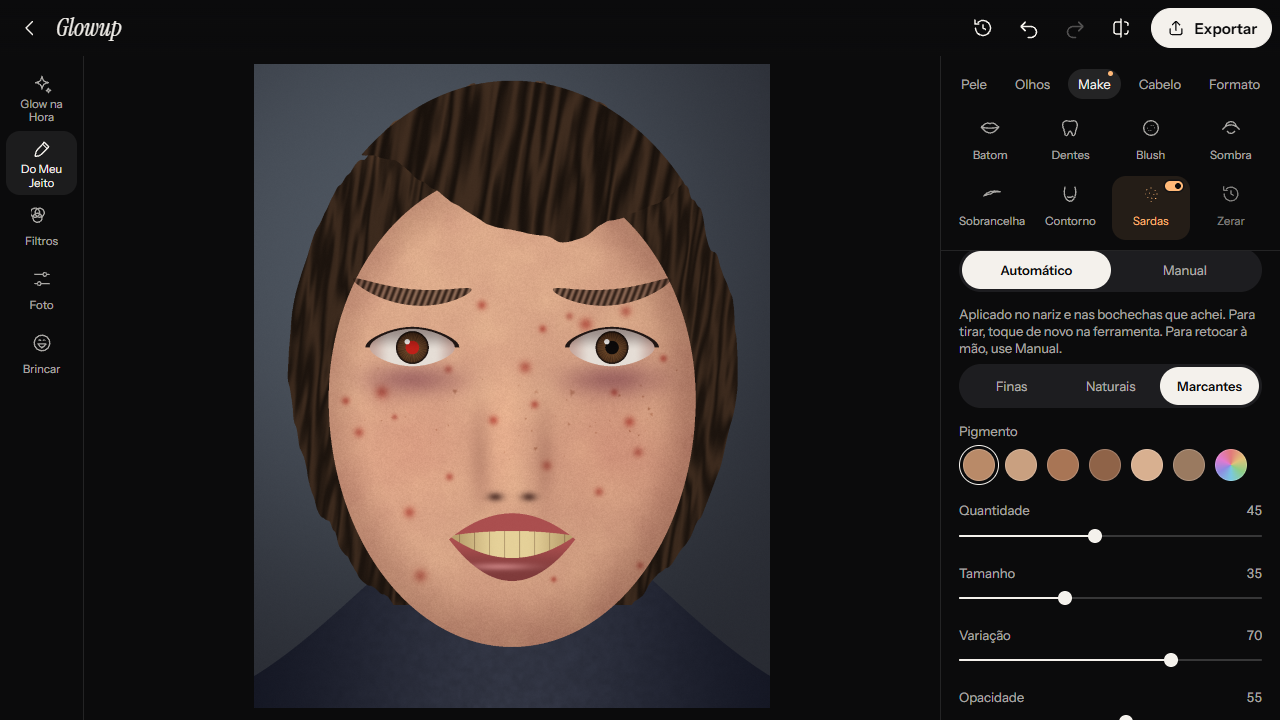
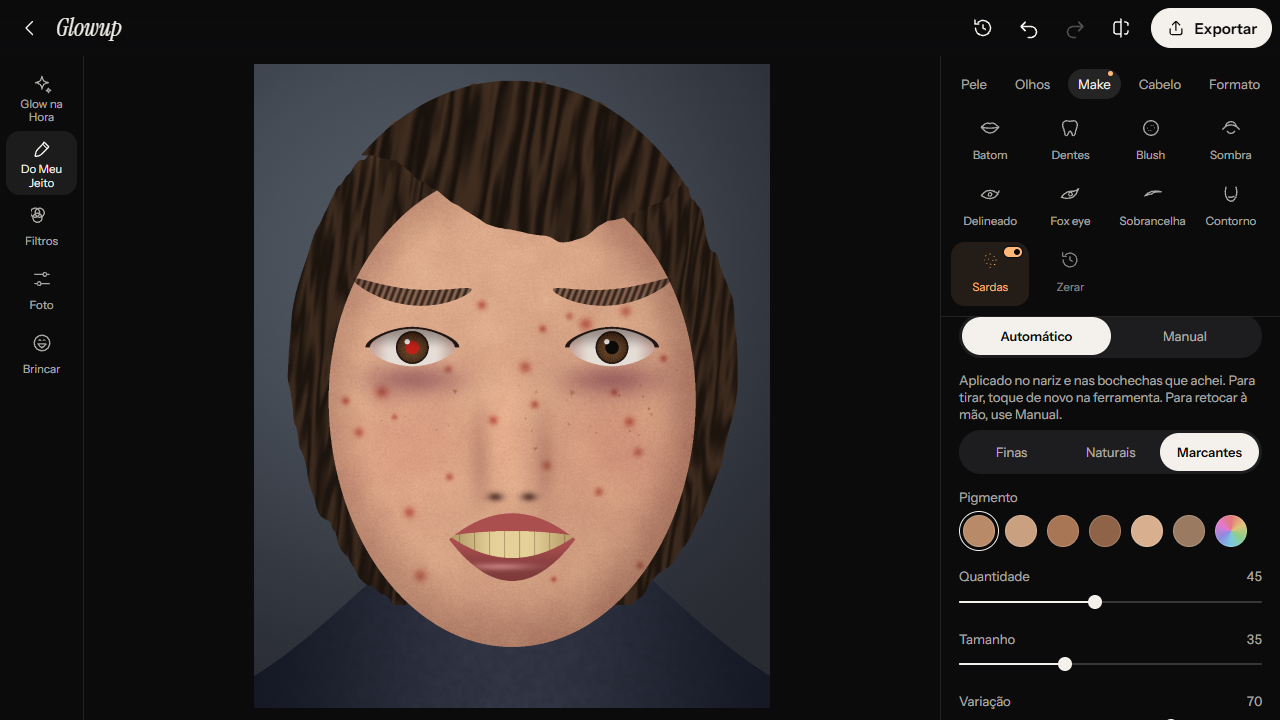
test: the liners are checked on drawn eyes and on the portrait
Unit tests cover the lids, the fit to the lashes, the classic and fox shapes,
the reach of the brush and an eye behind dark lenses. The e2e cases of Make
take Delineado and Fox eye, and the shots of the Make menu show them.

diff --git a/tests/unit/liner.test.ts b/tests/unit/liner.test.ts
@@ -1,0 +1,186 @@
+import { describe, expect, it } from 'vitest';
+import { eyeLids, fitLashes, foxShapes, linerShape, smoothLine, SMOKE_PEAK } from '../../src/core/face/liner';
+import type { MaskTarget, Point } from '../../src/core/face/mask';
+import { buildRegionMask } from '../../src/core/face/regions';
+import { makeFace, type FaceParts } from '../../src/core/face/scan';
+import { lens, oval, paintedPhoto, type Color } from './face-fixtures';
+
+const SIZE = 400;
+const at = (mask: Uint8Array, u: number, v: number) => mask[Math.round(v * SIZE) * SIZE + Math.round(u * SIZE)];
+
+/** A brow in the order of the model: along the top from the outer end, then back along the bottom. */
+function brow(cx: number, cy: number, halfW: number, halfH: number, outerAt: -1 | 1): Point[] {
+  const xs = [1, 0.5, 0, -0.5, -1].map((k) => cx + k * outerAt * halfW);
+  return [...xs.map((x): Point => [x, cy - halfH]), ...[...xs].reverse().map((x): Point => [x, cy + halfH])];
+}
+
+/**
+ * An eye in the order of the model, from its outer corner along the lower lid. `lens` starts at the left
+ * corner, which is the outer one of the eye on the left of the photo; the eye on the right is mirrored.
+ */
+function eye(cx: number, outerAt: -1 | 1): Point[] {
+  const list = lens(cx, 0.4, 0.06, 0.022, 16);
+  return outerAt === -1 ? list : list.map(([x, y]): Point => [2 * cx - x, y]);
+}
+
+const parts: FaceParts = {
+  eyes: [eye(0.37, -1), eye(0.63, 1)],
+  irises: [],
+  innerLips: lens(0.5, 0.68, 0.07, 0.015, 20),
+  outerLips: lens(0.5, 0.68, 0.09, 0.035, 20),
+  brows: [brow(0.37, 0.31, 0.07, 0.01, -1), brow(0.63, 0.31, 0.07, 0.01, 1)],
+};
+const face = (more: Partial<FaceParts> = {}) => makeFace(oval(0.5, 0.5, 0.26, 0.36), { ...parts, ...more });
+
+const SKIN: Color = [220, 168, 140];
+const WHITE: Color = [225, 220, 215];
+const LASH: Color = [40, 30, 28];
+const BROW: Color = [95, 65, 45];
+const LENS: Color = [30, 40, 70];
+
+const inLens = (u: number, v: number, cx: number, cy: number, a: number, b: number) => ((u - cx) / a) ** 2 + ((v - cy) / b) ** 2 < 1;
+
+/** Skin, two open eyes with a dark line of lashes on top, and brows. `over` covers some of it. */
+const eyed = (over?: (u: number, v: number) => Color | null): MaskTarget =>
+  paintedPhoto(SIZE, (u, v) => {
+    const covered = over?.(u, v);
+    if (covered) return covered;
+    for (const cx of [0.37, 0.63]) {
+      if (inLens(u, v, cx, 0.4, 0.06, 0.022)) return WHITE;
+      if (v < 0.4 && inLens(u, v, cx, 0.4, 0.061, 0.026)) return LASH;
+      if (inLens(u, v, cx, 0.31, 0.075, 0.012)) return BROW;
+    }
+    return SKIN;
+  });
+
+describe('the lids of an eye', () => {
+  const lids = eyeLids(eye(0.37, -1).map(([x, y]): Point => [x * SIZE, y * SIZE]), brow(0.37, 0.31, 0.07, 0.01, -1).map(([x, y]): Point => [x * SIZE, y * SIZE]));
+
+  it('run from the inner corner to the outer one, with up toward the brow', () => {
+    expect(lids.upper[0][0]).toBeCloseTo(0.43 * SIZE, 1);
+    expect(lids.upper.at(-1)![0]).toBeCloseTo(0.31 * SIZE, 1);
+    expect(lids.out[0]).toBeLessThan(-0.99);
+    expect(lids.up[1]).toBeLessThan(-0.99);
+    // Halfway along, the brow is some 0.07 of the photo over the lid.
+    expect(lids.lidHeight(0.5) / SIZE).toBeGreaterThan(0.05);
+    expect(lids.lidHeight(0.5) / SIZE).toBeLessThan(0.08);
+  });
+
+  it('are curves through the points of the model', () => {
+    const line = smoothLine([[0, 0], [1, 1], [2, 0]], 4);
+    expect(line).toHaveLength(9);
+    expect(line[0]).toEqual([0, 0]);
+    expect(line.at(-1)).toEqual([2, 0]);
+    expect(line[4][1]).toBeCloseTo(1, 5);
+  });
+
+  it('move onto the line of lashes of the photo, and stay without one', () => {
+    // A finer grid, so the line of lashes has a few pixels to it.
+    const S = 1600;
+    const lift = 0.0042;
+    const photo = paintedPhoto(S, (u, v) => {
+      if (inLens(u, v, 0.37, 0.4, 0.06, 0.022)) return WHITE;
+      if (v < 0.4 && inLens(u, v + lift, 0.37, 0.4, 0.061, 0.025) && !inLens(u, v + lift, 0.37, 0.4, 0.06, 0.022)) return LASH;
+      return SKIN;
+    });
+    const grid = (list: readonly Point[]) => list.map(([x, y]): Point => [x * S, y * S]);
+    const fine = eyeLids(grid(eye(0.37, -1)), grid(brow(0.37, 0.31, 0.07, 0.01, -1)));
+    const area = { x: 0, y: 0, w: S, h: S };
+    const moved = fitLashes(fine, photo.luma!(area), area);
+    const middle = Math.floor(fine.upper.length / 2);
+    // The lashes were drawn 0.0057 of the photo over the contour, in the middle.
+    const by = (fine.upper[middle][1] - moved.upper[middle][1]) / S;
+    expect(by).toBeGreaterThan(0.004);
+    expect(by).toBeLessThan(0.0075);
+    // The corners move half as much.
+    expect((fine.upper[0][1] - moved.upper[0][1]) / S).toBeCloseTo(by / 2, 3);
+    const plain = paintedPhoto(SIZE, () => SKIN);
+    const whole = { x: 0, y: 0, w: SIZE, h: SIZE };
+    expect(fitLashes(lids, plain.luma!(whole), whole).upper).toEqual(lids.upper);
+  });
+
+  it('give the fox a longer wing, lifted more than the classic one', () => {
+    const classic = linerShape(lids);
+    const fox = foxShapes(lids);
+    const outermost = (shape: readonly Point[]) => Math.min(...shape.map((p) => p[0]));
+    const highest = (shape: readonly Point[]) => Math.min(...shape.map((p) => p[1]));
+    expect(outermost(fox.top)).toBeLessThan(outermost(classic));
+    expect(highest(fox.top)).toBeLessThan(highest(classic) - 0.005 * SIZE);
+    expect(fox.angle).toBeGreaterThanOrEqual(18);
+    expect(fox.angle).toBeLessThanOrEqual(38);
+  });
+});
+
+describe('Delineado', () => {
+  it('lies on the upper lashes with a wing past the outer corner, off the eye, the lid and the brow', () => {
+    const mask = buildRegionMask([face()], 'liner', eyed())!;
+    for (const [cx, out] of [[0.37, -1], [0.63, 1]] as const) {
+      // Just over the lashes, in the middle of the lid, where the line is thin.
+      expect(Math.max(at(mask, cx, 0.372), at(mask, cx, 0.37))).toBeGreaterThan(50);
+      // In the wing, past the corner.
+      expect(at(mask, cx + out * 0.068, 0.393)).toBeGreaterThan(150);
+      expect(at(mask, cx, 0.4)).toBe(0);
+      expect(at(mask, cx, 0.35)).toBe(0);
+      expect(at(mask, cx, 0.31)).toBe(0);
+      expect(at(mask, cx, 0.43)).toBe(0);
+    }
+  });
+
+  it('leaves out an eye behind dark lenses', () => {
+    const glasses = (u: number, v: number) => (Math.abs(v - 0.39) < 0.05 && Math.abs(u - 0.37) < 0.1 ? LENS : null);
+    const mask = buildRegionMask([face()], 'liner', eyed(glasses))!;
+    expect(at(mask, 0.37, 0.374)).toBe(0);
+    expect(at(mask, 0.37 - 0.068, 0.393)).toBe(0);
+    // The other eye is bare and keeps its line.
+    expect(at(mask, 0.63 + 0.068, 0.393)).toBeGreaterThan(150);
+    const both = (u: number, v: number) => (Math.abs(v - 0.39) < 0.05 && Math.abs(u - 0.5) < 0.24 ? LENS : null);
+    expect(buildRegionMask([face()], 'liner', eyed(both))).toBeNull();
+  });
+
+  it('finds nothing on a face without eyes', () => {
+    for (const region of ['eyeline', 'liner', 'fox'] as const) {
+      expect(buildRegionMask([face({ eyes: [] })], region, eyed())).toBeNull();
+      expect(buildRegionMask([], region, eyed())).toBeNull();
+    }
+  });
+});
+
+describe('Fox eye', () => {
+  const mask = buildRegionMask([face()], 'fox', eyed())!;
+  const smoke = Math.round(SMOKE_PEAK * 255);
+
+  it('draws the line at full strength and the smoke at half, on the outer corner only', () => {
+    for (const [cx, out] of [[0.37, -1], [0.63, 1]] as const) {
+      // The long wing, past the corner and up.
+      expect(at(mask, cx + out * 0.065, 0.39)).toBeGreaterThan(160);
+      // Smoke over the outer part of the lid, never as strong as the line.
+      const lid = at(mask, cx + out * 0.035, 0.36);
+      expect(lid).toBeGreaterThan(smoke * 0.5);
+      expect(lid).toBeLessThanOrEqual(smoke + 2);
+      // The inner part of the lid, the eye, the brow and the cheek stay clear.
+      expect(at(mask, cx - out * 0.04, 0.35)).toBeLessThan(20);
+      expect(at(mask, cx, 0.4)).toBe(0);
+      expect(at(mask, cx, 0.31)).toBeLessThan(20);
+      expect(at(mask, cx, 0.46)).toBe(0);
+    }
+  });
+
+  it('points the inner corner toward the nose and down', () => {
+    expect(at(mask, 0.37 + 0.066, 0.402)).toBeGreaterThan(60);
+    expect(at(mask, 0.63 - 0.066, 0.402)).toBeGreaterThan(60);
+  });
+});
+
+describe('the reach of the brush', () => {
+  it('goes around the eye, up the lid and out past the corner, with the eye left out', () => {
+    const mask = buildRegionMask([face()], 'eyeline', eyed())!;
+    for (const [cx, out] of [[0.37, -1], [0.63, 1]] as const) {
+      expect(at(mask, cx, 0.36)).toBeGreaterThan(200);
+      expect(at(mask, cx + out * 0.1, 0.37)).toBeGreaterThan(200);
+      expect(at(mask, cx, 0.427)).toBeGreaterThan(120);
+      expect(at(mask, cx, 0.4)).toBe(0);
+      expect(at(mask, cx, 0.3)).toBe(0);
+      expect(at(mask, cx, 0.5)).toBe(0);
+    }
+  });
+});

diff --git a/tests/e2e/makeup.spec.ts b/tests/e2e/makeup.spec.ts
@@ -27,6 +27,12 @@ const CHIN: Spot = [0, 0.37];
 const MIDDLE_CHEEK: Spot = [-0.1, 0.17];
 const HAIR: Spot = [-0.33, 0];
 const BACKGROUND: Spot = [-0.38, -0.44];
+/** The eyes of the portrait are 0.132 wide, with the outer corners at 0.221 from the middle. */
+const WING: Spot = [-0.234, -0.072];
+const WING_RIGHT: Spot = [0.234, -0.072];
+const FOX_WING: Spot = [-0.244, -0.078];
+const FOX_WING_RIGHT: Spot = [0.244, -0.078];
+const OUTER_LID: Spot = [-0.2, -0.098];
 
 function watch(page: Page) {
   const errors: string[] = [];
@@ -109,6 +115,26 @@ const CASES: Case[] = [
     faint: [WHITE],
     outside: [[-0.03, 0.15], [0.03, 0.15]],
     inside: [[-0.17, -0.104], [-0.14, -0.104]],
+  },
+  {
+    tool: 'liner',
+    name: 'Delineado cai rente aos cílios, com uma asa curta no canto de fora',
+    place: /Aplicado rente aos cílios que achei/,
+    limit: 'Só em volta dos olhos',
+    hits: [WING, WING_RIGHT],
+    misses: [IRIS, LID, BROW, APPLE, FOREHEAD, BRIDGE, HAIR],
+    outside: [[-0.03, 0.15], [0.03, 0.15]],
+    inside: [[-0.17, -0.1], [-0.14, -0.1]],
+  },
+  {
+    tool: 'foxeye',
+    name: 'Fox eye puxa uma asa longa para cima e esfuma o canto de fora',
+    place: /Aplicado no canto de fora dos olhos que achei/,
+    limit: 'Só em volta dos olhos',
+    hits: [FOX_WING, FOX_WING_RIGHT, OUTER_LID],
+    misses: [IRIS, APPLE, FOREHEAD, BRIDGE, UPPER_LIP, HAIR],
+    outside: [[-0.03, 0.15], [0.03, 0.15]],
+    inside: [[-0.17, -0.1], [-0.14, -0.1]],
   },
   {
     tool: 'brow',
@@ -328,7 +354,7 @@ test.describe('make', () => {
   test('todas juntas compõem a maquiagem, e o Manual parte do que o Automático fez', async ({ page }) => {
     const errors = watch(page);
     await openEditor(page);
-    for (const tool of ['lips', 'blush', 'eyeshadow', 'brow', 'contour', 'freckles', 'whiten']) await applied(page, tool);
+    for (const tool of ['lips', 'blush', 'eyeshadow', 'liner', 'foxeye', 'brow', 'contour', 'freckles', 'whiten']) await applied(page, tool);
     await settle(page, 300);
     await page.screenshot({ path: shot('ui-make-auto') });
     await pickTool(page, 'makeup', 'lips', { auto: true });
@@ -352,7 +378,7 @@ test.describe('make', () => {
   test('sem rosto, cada ferramenta cai no pincel livre e diz por quê', async ({ page }) => {
     const errors = watch(page);
     await openEditor(page, 'gradient.png');
-    for (const tool of ['lips', 'whiten', 'blush', 'eyeshadow', 'brow', 'contour', 'freckles']) {
+    for (const tool of ['lips', 'whiten', 'blush', 'eyeshadow', 'liner', 'foxeye', 'brow', 'contour', 'freckles']) {
       await page.locator('[data-group=makeup]').click();
       await toolButton(page, tool).click();
       await page.getByTestId('limit-toggle').click();

diff --git a/tests/unit/makeup.test.ts b/tests/unit/makeup.test.ts
@@ -521,7 +521,7 @@ describe('the Make group in the catalog', () => {
   const make = TOOLS.filter((t) => t.group === 'makeup');
 
   it('holds every tool on a region, with words for the switch, the wait and the panel', () => {
-    expect(make.map((t) => t.id)).toEqual(['lips', 'whiten', 'blush', 'eyeshadow', 'brow', 'contour', 'freckles']);
+    expect(make.map((t) => t.id)).toEqual(['lips', 'whiten', 'blush', 'eyeshadow', 'liner', 'foxeye', 'brow', 'contour', 'freckles']);
     for (const tool of make) {
       expect(tool.region).toBeTruthy();
       expect(LIMIT_WORDS[tool.region!].name).toMatch(/^Só/);
@@ -538,6 +538,8 @@ describe('the Make group in the catalog', () => {
     expect(shape('whiten')).toEqual(['teeth', undefined]);
     expect(shape('blush')).toEqual(['skin', 'cheeks']);
     expect(shape('eyeshadow')).toEqual(['lids', 'shadow']);
+    expect(shape('liner')).toEqual(['eyeline', 'liner']);
+    expect(shape('foxeye')).toEqual(['eyeline', 'fox']);
     expect(shape('brow')).toEqual(['brows', 'browhair']);
     expect(shape('contour')).toEqual(['skin', 'sculpt']);
     expect(shape('freckles')).toEqual(['skin', 'sprinkle']);
